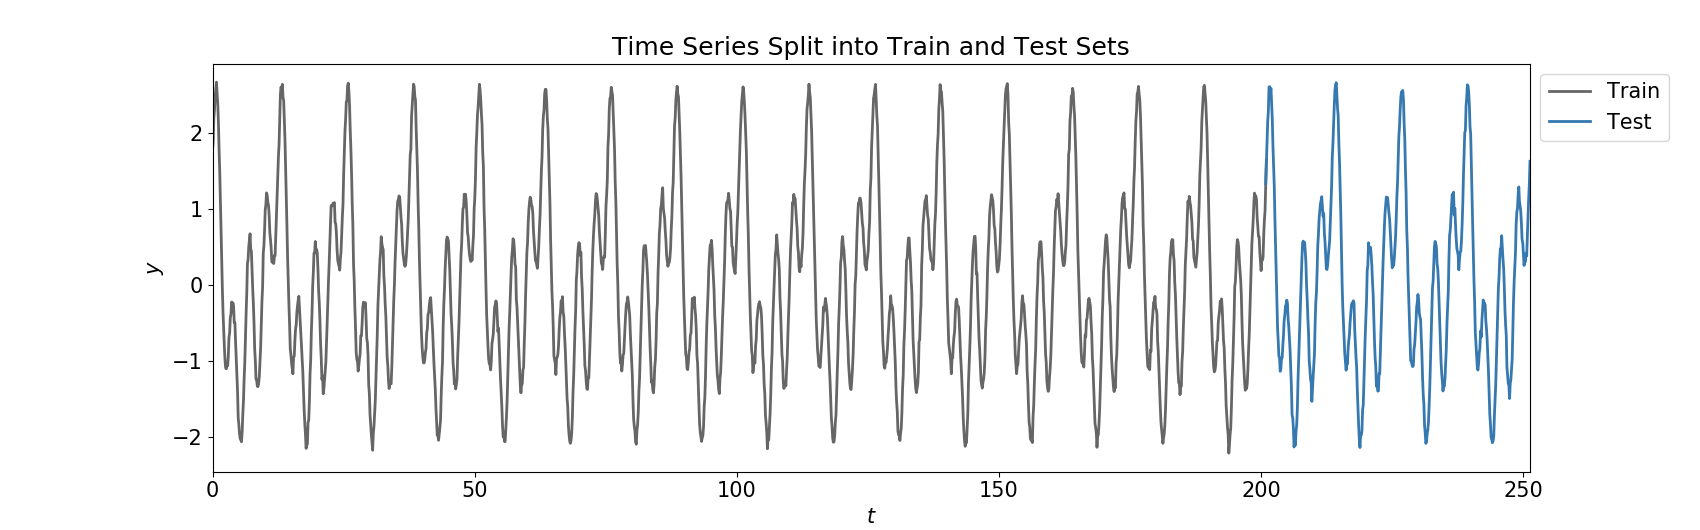
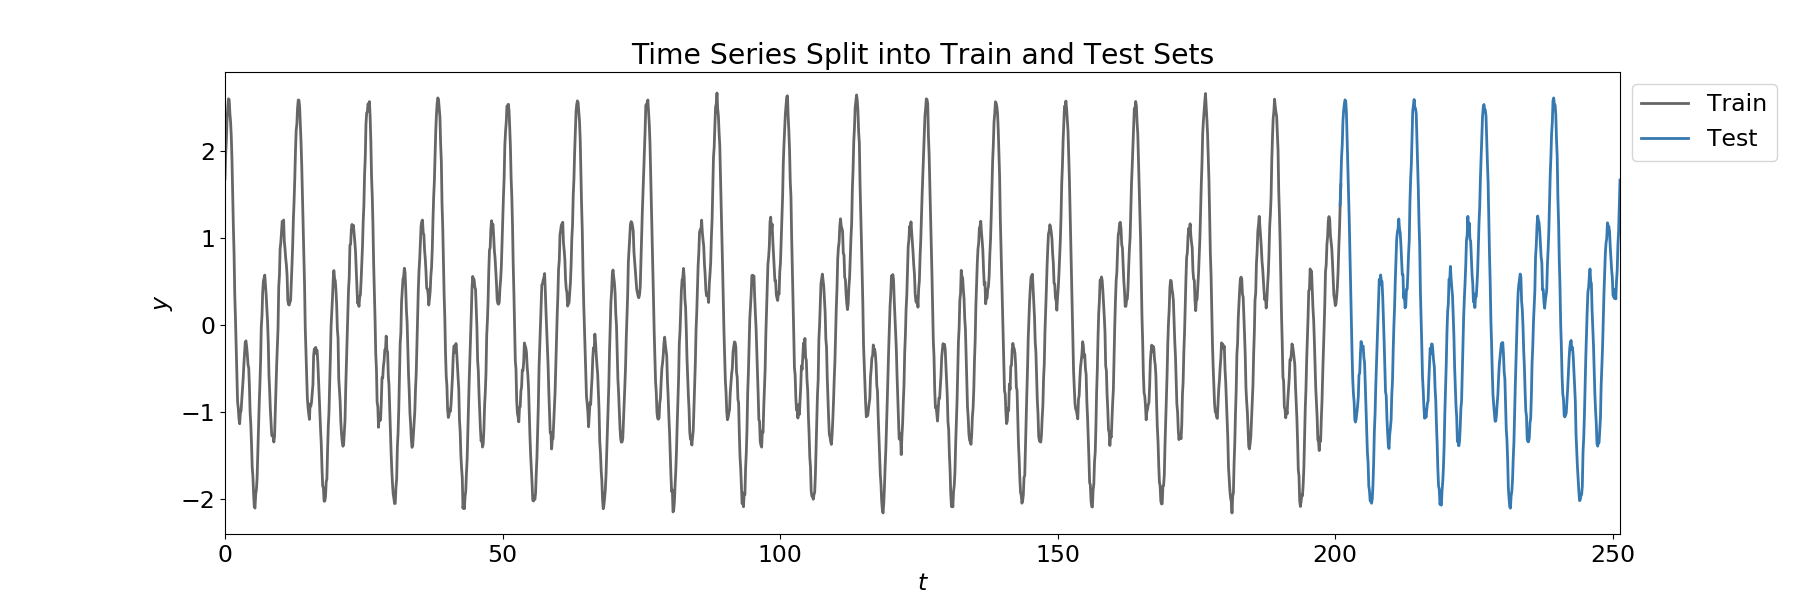
edit fig 2

diff --git a/code/example.py b/code/example.py
@@ -12,13 +12,13 @@ import matplotlib.pyplot as plt
 import generate_dataset
 
 import matplotlib
-matplotlib.rcParams.update({'font.size': 15})
+matplotlib.rcParams.update({'font.size': 17})
 
 # generate dataset for LSTM
 t, y = generate_dataset.synthetic_data()
 t_train, y_train, t_test, y_test = generate_dataset.train_test_split(t, y, split = 0.8)
 
-plt.figure(figsize = (17, 5.3))
+plt.figure(figsize = (18, 6))
 plt.plot(t_train, y_train, color = '0.4', linewidth = 2, label = 'Train') 
 plt.plot(np.concatenate([t_train[-2:-1], t_test]), np.concatenate([y_train[-2:-1], y_test]),
          color = (0.21, 0.47, 0.69), linewidth = 2, label = 'Test')
